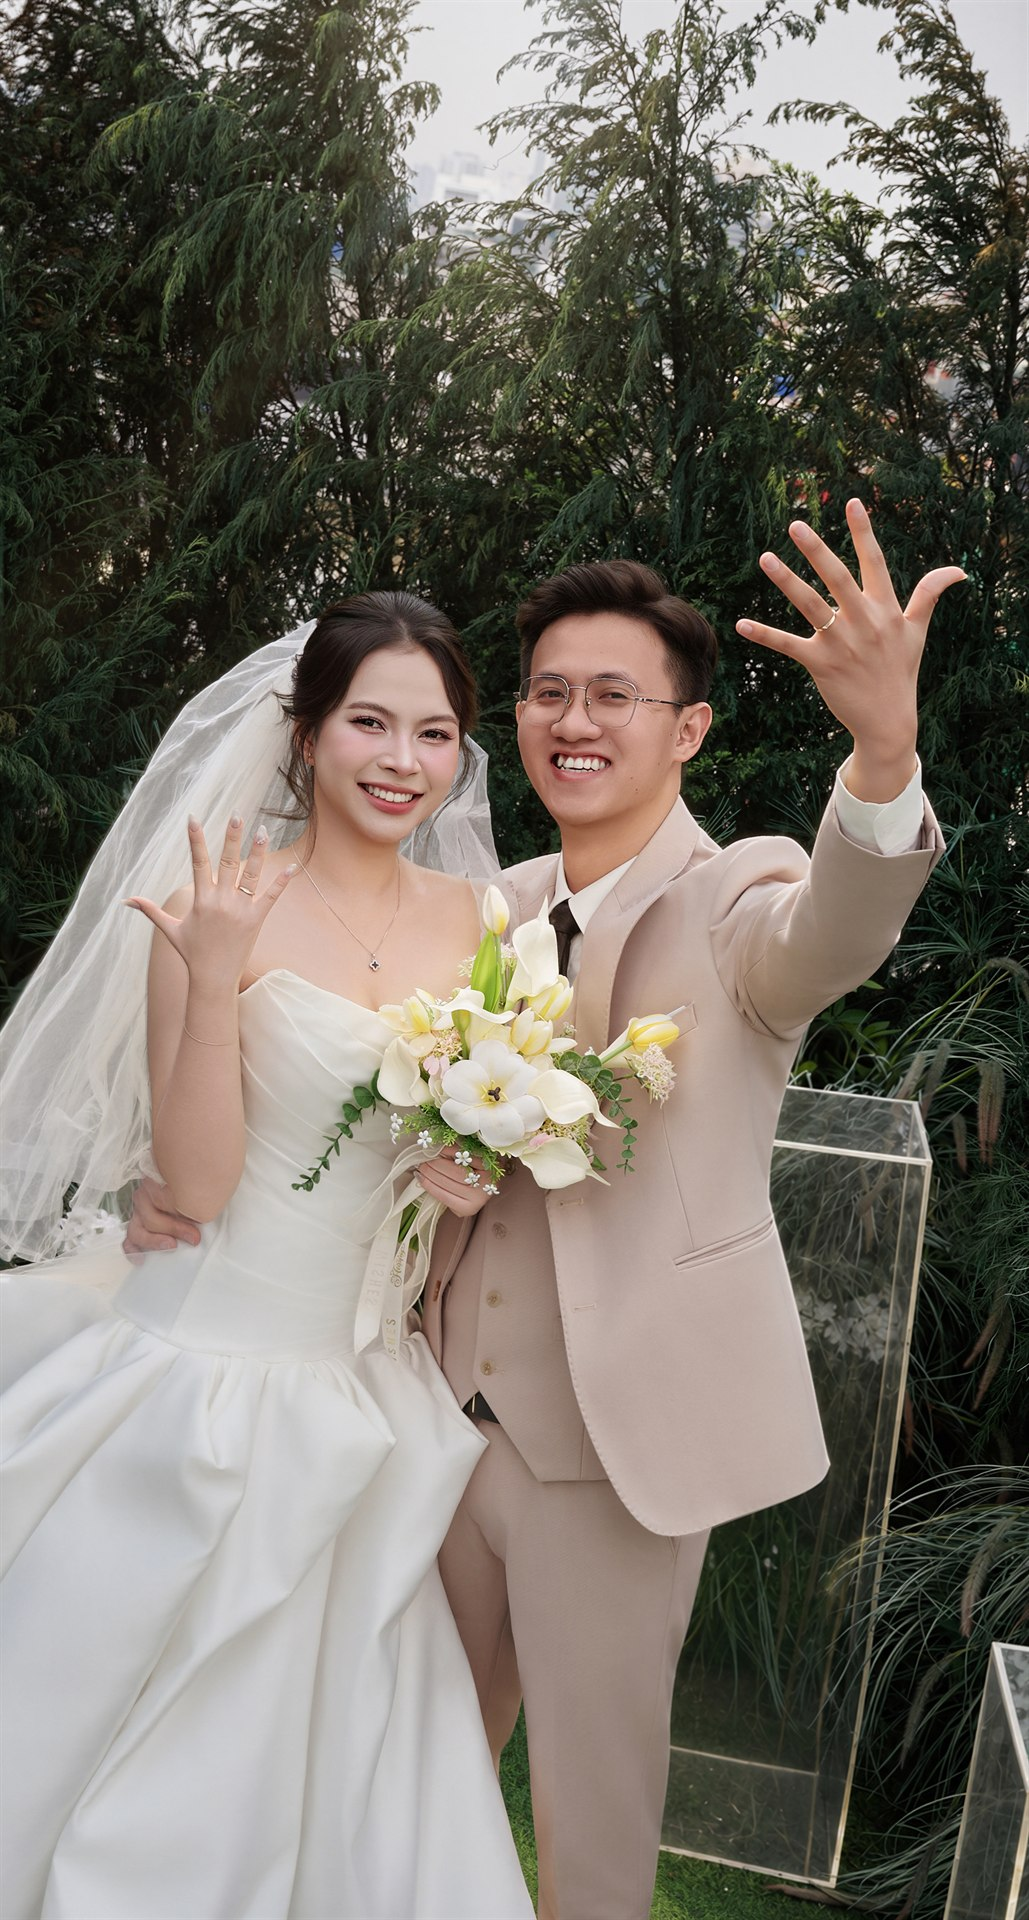
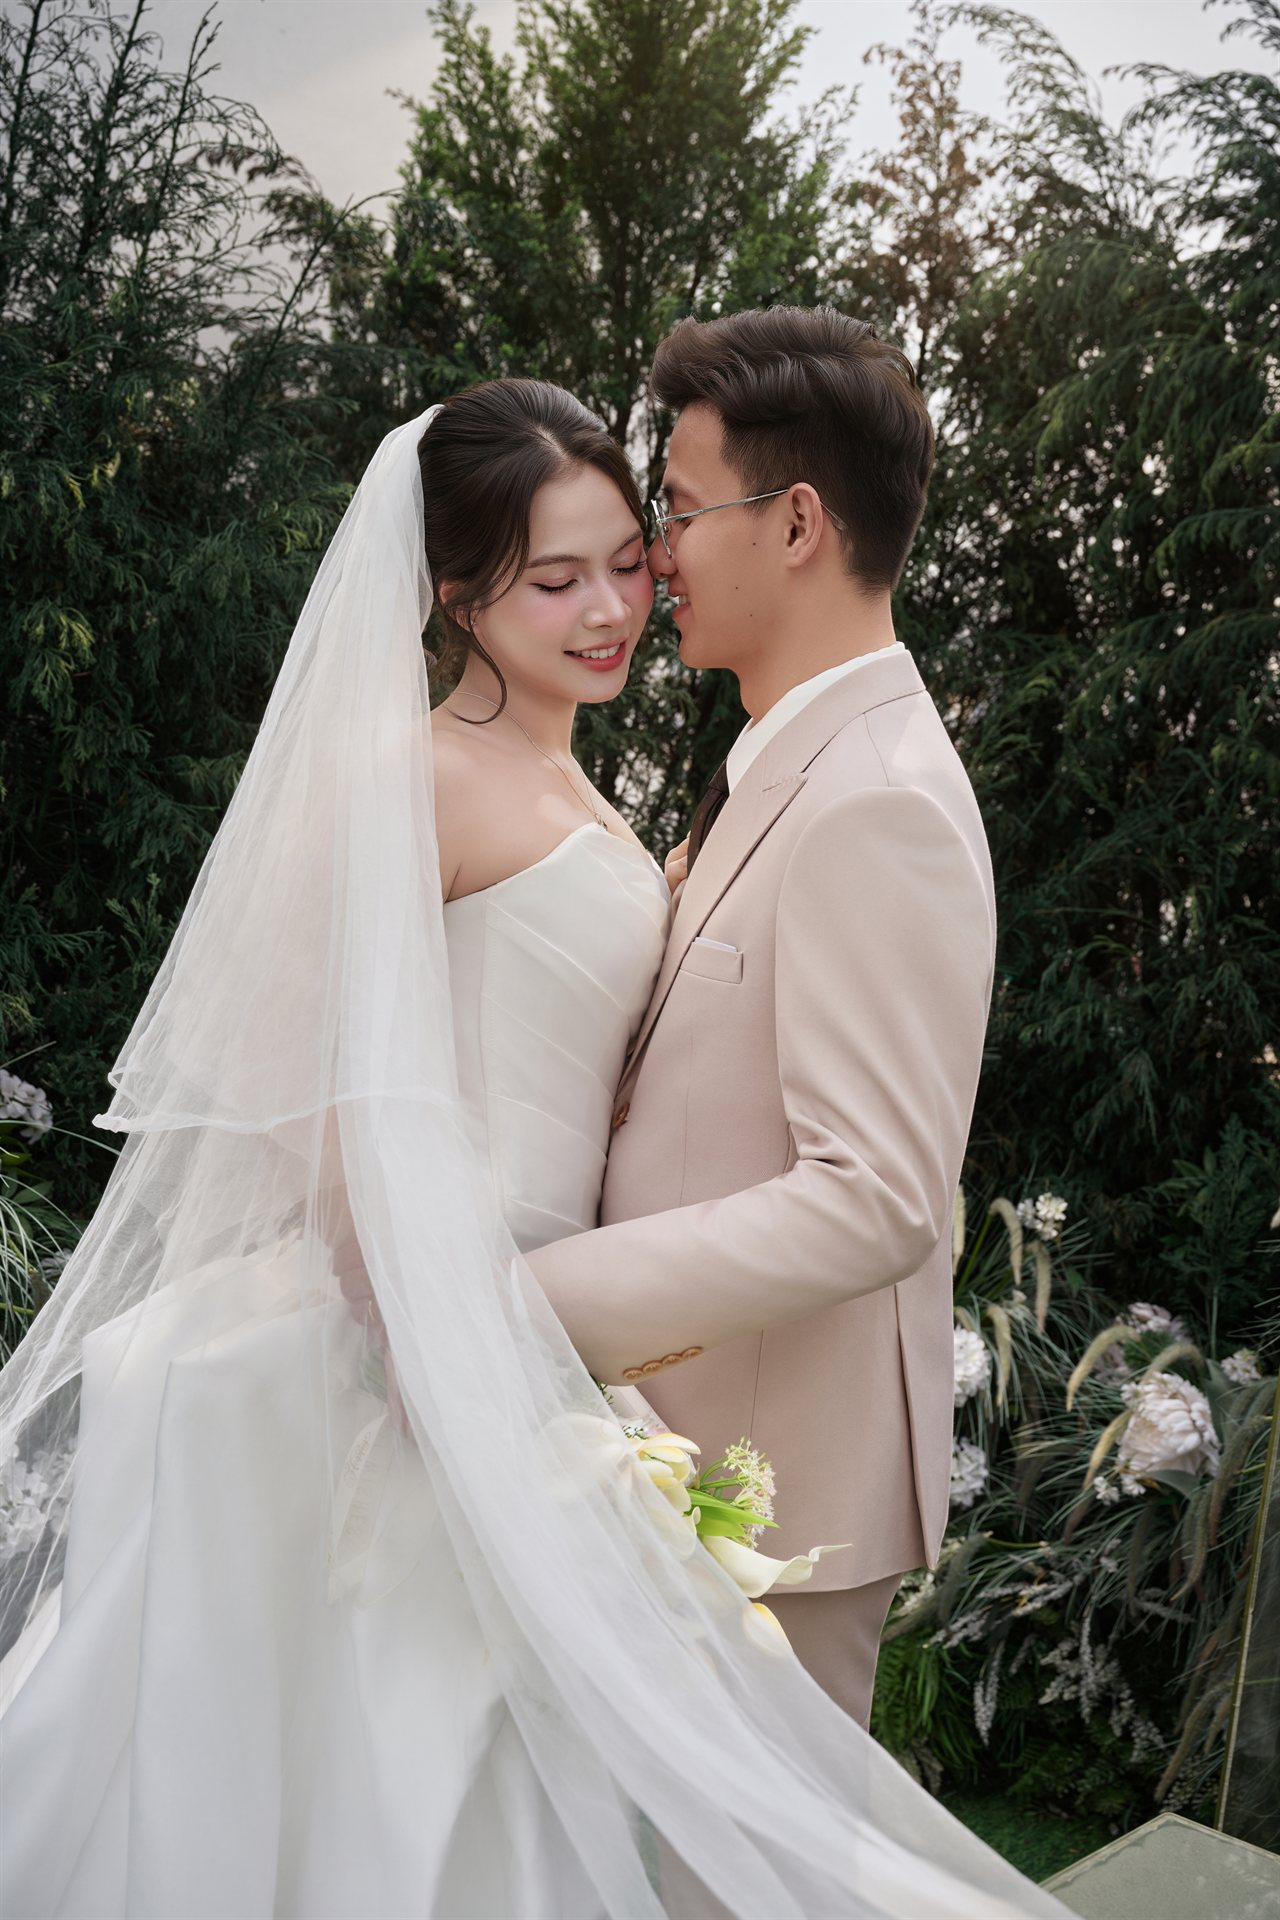
update code

diff --git a/themes/wedding/source/css/style.css b/themes/wedding/source/css/style.css
@@ -234,8 +234,8 @@
 
 /* Heart Seal - matching rose theme */
 .wax-seal {
-    width: 55px;
-    height: 55px;
+    width: 70px;
+    height: 70px;
     background: radial-gradient(circle at 35% 35%, #D4A5A5 0%, #BC8F8F 50%, #A67B7B 100%);
     border-radius: 50%;
     display: flex;
@@ -251,7 +251,8 @@
 }
 
 .seal-text {
-    font-size: 22px;
+    font-size: 18px;
+     font-family: 'Great Vibes', cursive;
 }
 
 .luxury-envelope.opening .wax-seal {
@@ -538,12 +539,13 @@
     }
 
     .wax-seal {
-        width: 45px;
-        height: 45px;
+        width: 62px;
+        height: 62px;
     }
 
     .seal-text {
         font-size: 18px;
+        
     }
 
     .cta-text {
